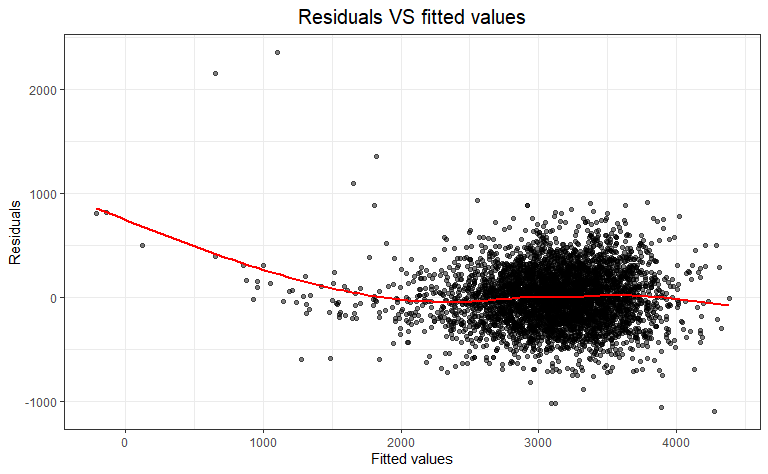
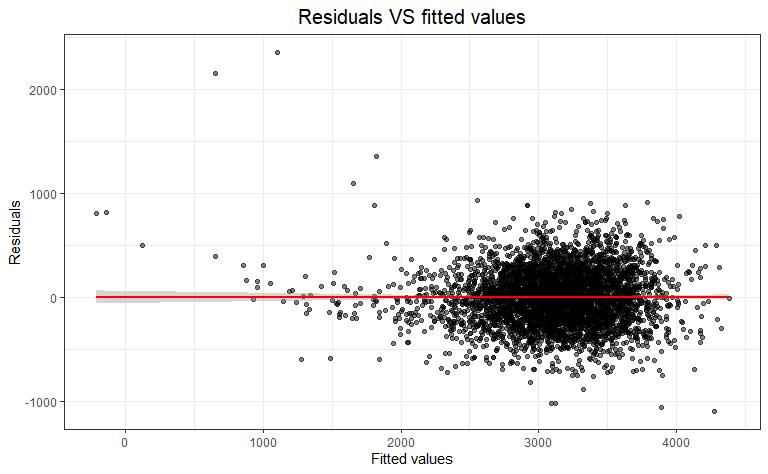
Finished problem 2

diff --git a/p8105_hw6_yl4360.md b/p8105_hw6_yl4360.md
@@ -187,42 +187,6 @@ fit = lm(bwt ~ ., data = bw) %>%
     ## - blength  1 102191779 423178191 49903
     ## - bhead    1 106779754 427766166 49950
 
-``` r
-summary(fit)
-```
-
-    ## 
-    ## Call:
-    ## lm(formula = bwt ~ babysex + bhead + blength + delwt + fincome + 
-    ##     gaweeks + mheight + mrace + parity + ppwt + smoken, data = bw)
-    ## 
-    ## Residuals:
-    ##      Min       1Q   Median       3Q      Max 
-    ## -1097.18  -185.52    -3.39   174.14  2353.44 
-    ## 
-    ## Coefficients:
-    ##               Estimate Std. Error t value Pr(>|t|)    
-    ## (Intercept) -6098.8219   137.5463 -44.340  < 2e-16 ***
-    ## babysex2       28.5580     8.4549   3.378 0.000737 ***
-    ## bhead         130.7770     3.4466  37.944  < 2e-16 ***
-    ## blength        74.9471     2.0190  37.120  < 2e-16 ***
-    ## delwt           4.1067     0.3921  10.475  < 2e-16 ***
-    ## fincome         0.3180     0.1747   1.820 0.068844 .  
-    ## gaweeks        11.5925     1.4621   7.929 2.79e-15 ***
-    ## mheight         6.5940     1.7849   3.694 0.000223 ***
-    ## mrace2       -138.7925     9.9071 -14.009  < 2e-16 ***
-    ## mrace3        -74.8868    42.3146  -1.770 0.076837 .  
-    ## mrace4       -100.6781    19.3247  -5.210 1.98e-07 ***
-    ## parity         96.3047    40.3362   2.388 0.017004 *  
-    ## ppwt           -2.6756     0.4274  -6.261 4.20e-10 ***
-    ## smoken         -4.8434     0.5856  -8.271  < 2e-16 ***
-    ## ---
-    ## Signif. codes:  0 '***' 0.001 '**' 0.01 '*' 0.05 '.' 0.1 ' ' 1
-    ## 
-    ## Residual standard error: 272.3 on 4328 degrees of freedom
-    ## Multiple R-squared:  0.7181, Adjusted R-squared:  0.7173 
-    ## F-statistic: 848.1 on 13 and 4328 DF,  p-value: < 2.2e-16
-
 First I use “Stepwise Regression” to choose my model. According to the
 results above, I choose `bwt ~ babysex + bhead + blength + delwt +
 fincome + gaweeks + mheight + mrace + parity + ppwt +
@@ -276,15 +240,13 @@ bw %>%
   add_residuals(fit) %>% 
   ggplot(aes(x = pred, y = resid)) +
   geom_point(alpha = 0.5) +
-  geom_smooth(se = F, color = "red")+
+  geom_smooth(method = lm, color = "red")+
   labs(
     titles = "Residuals VS fitted values",
     x = "Fitted values",
     y = "Residuals"
   )
 ```
-
-    ## `geom_smooth()` using method = 'gam' and formula 'y ~ s(x, bs = "cs")'
 
 <img src="p8105_hw6_yl4360_files/figure-gfm/unnamed-chunk-4-1.png" width="90%" />
 
@@ -336,3 +298,229 @@ than the other two. Model 1 is the poorest when being used to describing
 what factors can affect baby’s birthweight based on this dataset.
 
 # Problem 2
+
+### Load data
+
+``` r
+weather_df = 
+  rnoaa::meteo_pull_monitors(
+    c("USW00094728"),
+    var = c("PRCP", "TMIN", "TMAX"), 
+    date_min = "2017-01-01",
+    date_max = "2017-12-31") %>%
+  mutate(
+    name = recode(id, USW00094728 = "CentralPark_NY"),
+    tmin = tmin / 10,
+    tmax = tmax / 10) %>%
+  select(name, id, everything())
+```
+
+    ## Registered S3 method overwritten by 'crul':
+    ##   method                 from
+    ##   as.character.form_file httr
+
+    ## Registered S3 method overwritten by 'hoardr':
+    ##   method           from
+    ##   print.cache_info httr
+
+    ## file path:          C:\Users\Leah\AppData\Local\rnoaa\rnoaa\Cache/ghcnd/USW00094728.dly
+
+    ## file last updated:  2019-09-26 10:40:25
+
+    ## file min/max dates: 1869-01-01 / 2019-09-30
+
+### A simple linear regression with `tmax` as the response and `tmin` as the predictor
+
+``` r
+fit = lm(tmax ~ tmin, data = weather_df)
+summary(fit)
+```
+
+    ## 
+    ## Call:
+    ## lm(formula = tmax ~ tmin, data = weather_df)
+    ## 
+    ## Residuals:
+    ##     Min      1Q  Median      3Q     Max 
+    ## -6.0304 -2.1245  0.0264  1.7264  9.4915 
+    ## 
+    ## Coefficients:
+    ##             Estimate Std. Error t value Pr(>|t|)    
+    ## (Intercept)  7.20850    0.22635   31.85   <2e-16 ***
+    ## tmin         1.03924    0.01699   61.16   <2e-16 ***
+    ## ---
+    ## Signif. codes:  0 '***' 0.001 '**' 0.01 '*' 0.05 '.' 0.1 ' ' 1
+    ## 
+    ## Residual standard error: 2.938 on 363 degrees of freedom
+    ## Multiple R-squared:  0.9115, Adjusted R-squared:  0.9113 
+    ## F-statistic:  3741 on 1 and 363 DF,  p-value: < 2.2e-16
+
+The fitted model is $Y =7.21 + 1.04X $ (Y=tmax,
+X=tmin)
+
+### Use 5000 bootstrap samples and, for each bootstrap sample, produce estimates of two qauntities
+
+  - \(\widehat {r}^2\)
+
+  - \(\log (\widehat{\beta_o} \times \widehat{\beta_1})\)
+
+<!-- end list -->
+
+``` r
+bootstrap = function(x){
+  
+  model_1 =
+    x %>% 
+    broom::tidy()
+  model_2 =
+    x %>%
+    broom::glance()
+  
+  tibble(
+    r_squared = pull(model_2, adj.r.squared),
+    log_beta0_beta1 = log(pull(model_1, estimate)[1] * pull(model_1, estimate)[2]))
+  
+}
+
+estimates = 
+ weather_df %>% 
+  modelr::bootstrap(n = 5000) %>% 
+  mutate(
+    models = map(strap, ~ lm(tmax ~ tmin, data = .x)),
+    results = map(models, bootstrap)) %>% 
+  unnest(results) %>%
+  select(-strap, -models) 
+
+estimates[1:6,] %>%
+  rename("Linear model" = `.id`) %>%
+  knitr::kable(align = 'c')
+```
+
+| Linear model | r\_squared | log\_beta0\_beta1 |
+| :----------: | :--------: | :---------------: |
+|     0001     | 0.8974071  |     2.036817      |
+|     0002     | 0.9132426  |     1.987364      |
+|     0003     | 0.9014805  |     2.037284      |
+|     0004     | 0.9035356  |     2.011066      |
+|     0005     | 0.9200170  |     1.992120      |
+|     0006     | 0.9033351  |     2.022647      |
+
+### The distribution of r\_square
+
+``` r
+estimates %>% 
+  ggplot(aes(x = r_squared)) +
+  geom_density(fill = "light pink", color = "light pink", alpha = .6, size = 1.3) +
+  labs( x = expression(""~hat(r)^2~""),
+       title = expression("Distribution of "~hat(r)^2~""),
+       y = "Density")
+```
+
+<img src="p8105_hw6_yl4360_files/figure-gfm/unnamed-chunk-9-1.png" width="90%" />
+
+### The distribution of log(beta\_0\*beata\_1)
+
+``` r
+estimates %>% 
+  ggplot(aes(x = log_beta0_beta1)) +
+  geom_density(fill = "light blue", color = "light blue", alpha = .6, size = 1.3) +
+  labs(x = expression("log("~hat(beta)[0]~"*"~hat(beta)[1]~")"),
+       title = expression("Distribution of log("~hat(beta)[0]~"*"~hat(beta)[1]~")"),
+       y = "Density")
+```
+
+<img src="p8105_hw6_yl4360_files/figure-gfm/unnamed-chunk-10-1.png" width="90%" />
+
+Both of the distribution of two estimates are a little left skewed,
+indicating that there might be some outliers in the dataset.
+
+### 95% confidence intervals
+
+``` r
+r_square_interval = quantile(pull(estimates, r_squared), c(0.025,0.975))
+log_b0_b1_interval = quantile(pull(estimates, log_beta0_beta1), c(0.025,0.975))
+rbind(r_square_interval, log_b0_b1_interval) %>% 
+  knitr::kable(format = "html", align = 'c', caption = "95% confidence interval for estimates")
+```
+
+<table>
+
+<caption>
+
+95% confidence interval for estimates
+
+</caption>
+
+<thead>
+
+<tr>
+
+<th style="text-align:left;">
+
+</th>
+
+<th style="text-align:center;">
+
+2.5%
+
+</th>
+
+<th style="text-align:center;">
+
+97.5%
+
+</th>
+
+</tr>
+
+</thead>
+
+<tbody>
+
+<tr>
+
+<td style="text-align:left;">
+
+r\_square\_interval
+
+</td>
+
+<td style="text-align:center;">
+
+0.8934048
+
+</td>
+
+<td style="text-align:center;">
+
+0.9272809
+
+</td>
+
+</tr>
+
+<tr>
+
+<td style="text-align:left;">
+
+log\_b0\_b1\_interval
+
+</td>
+
+<td style="text-align:center;">
+
+1.9669417
+
+</td>
+
+<td style="text-align:center;">
+
+2.0585284
+
+</td>
+
+</tr>
+
+</tbody>
+
+</table>
